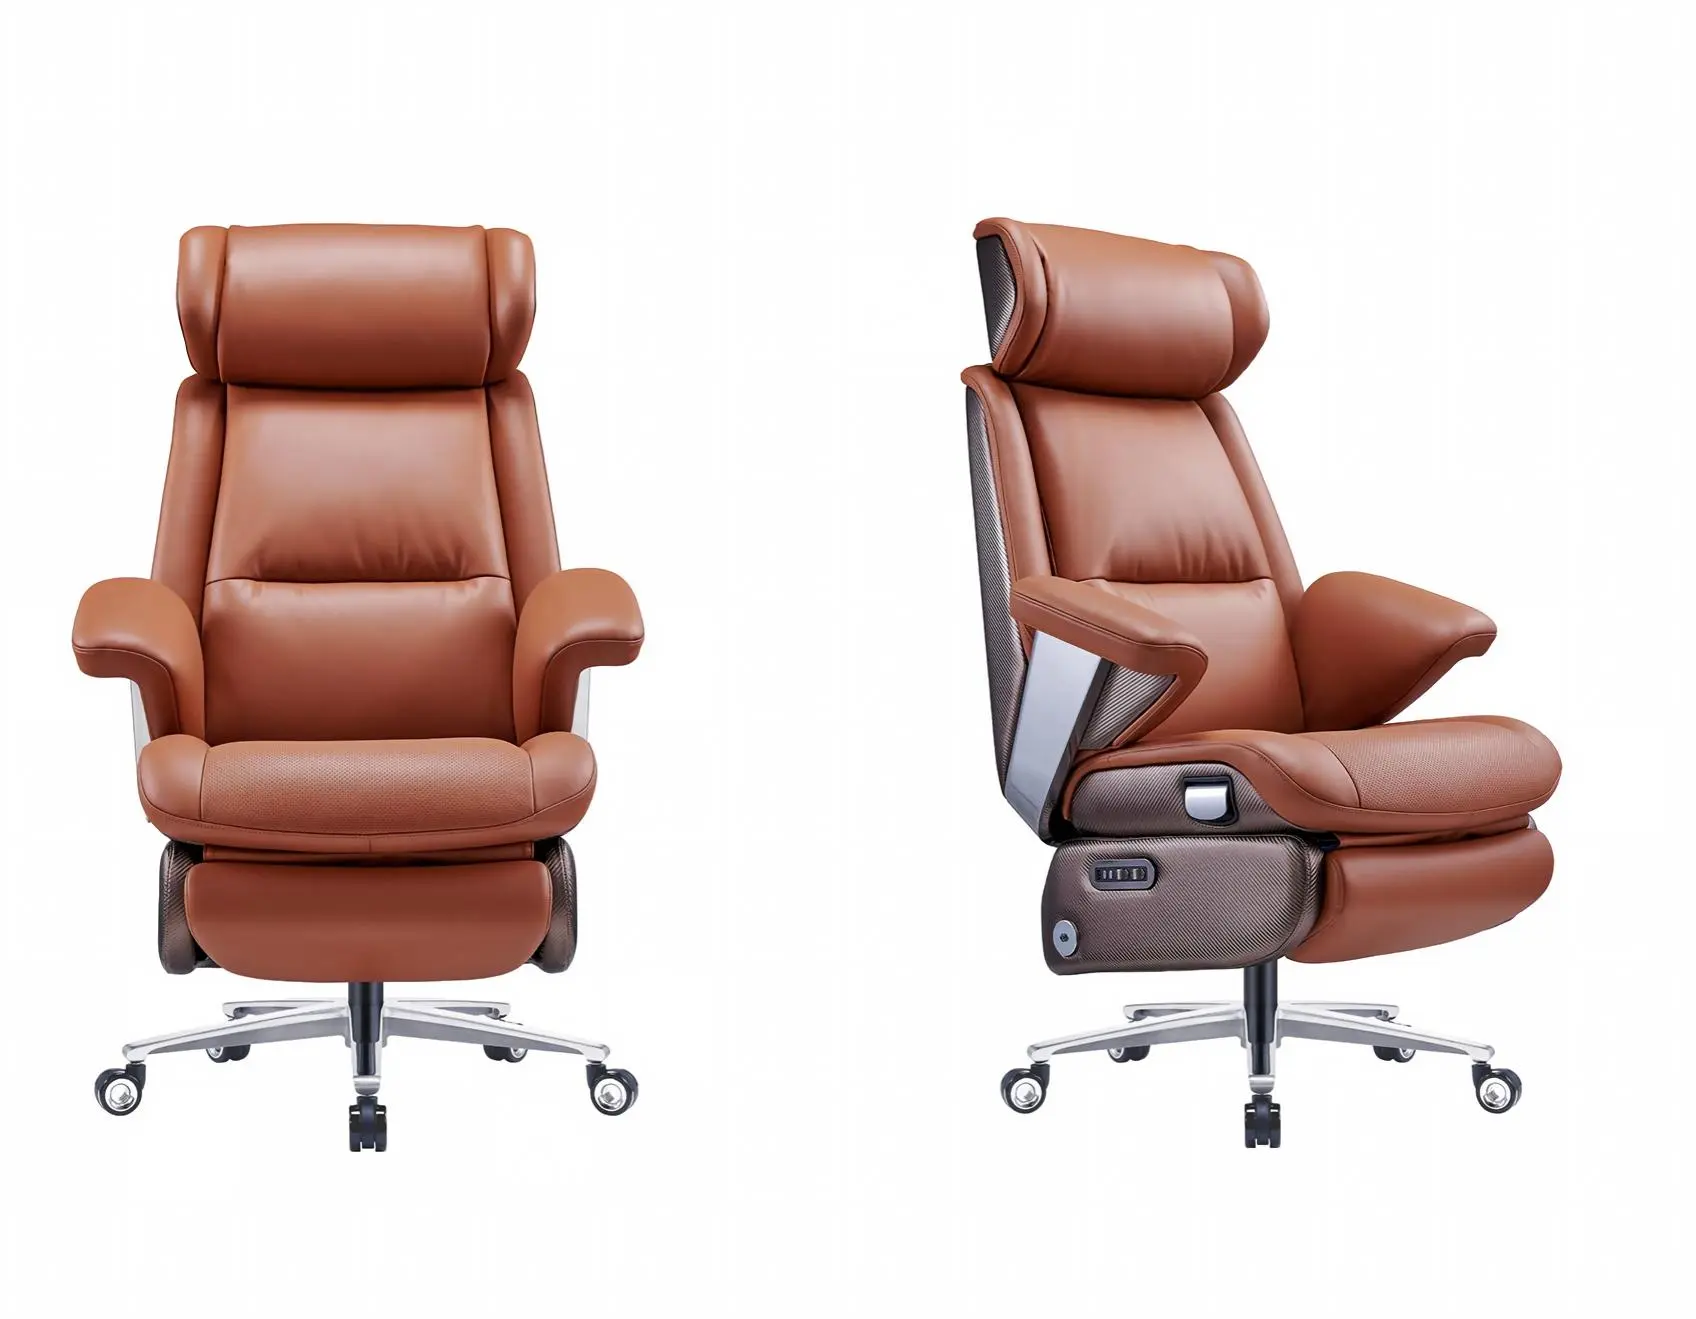
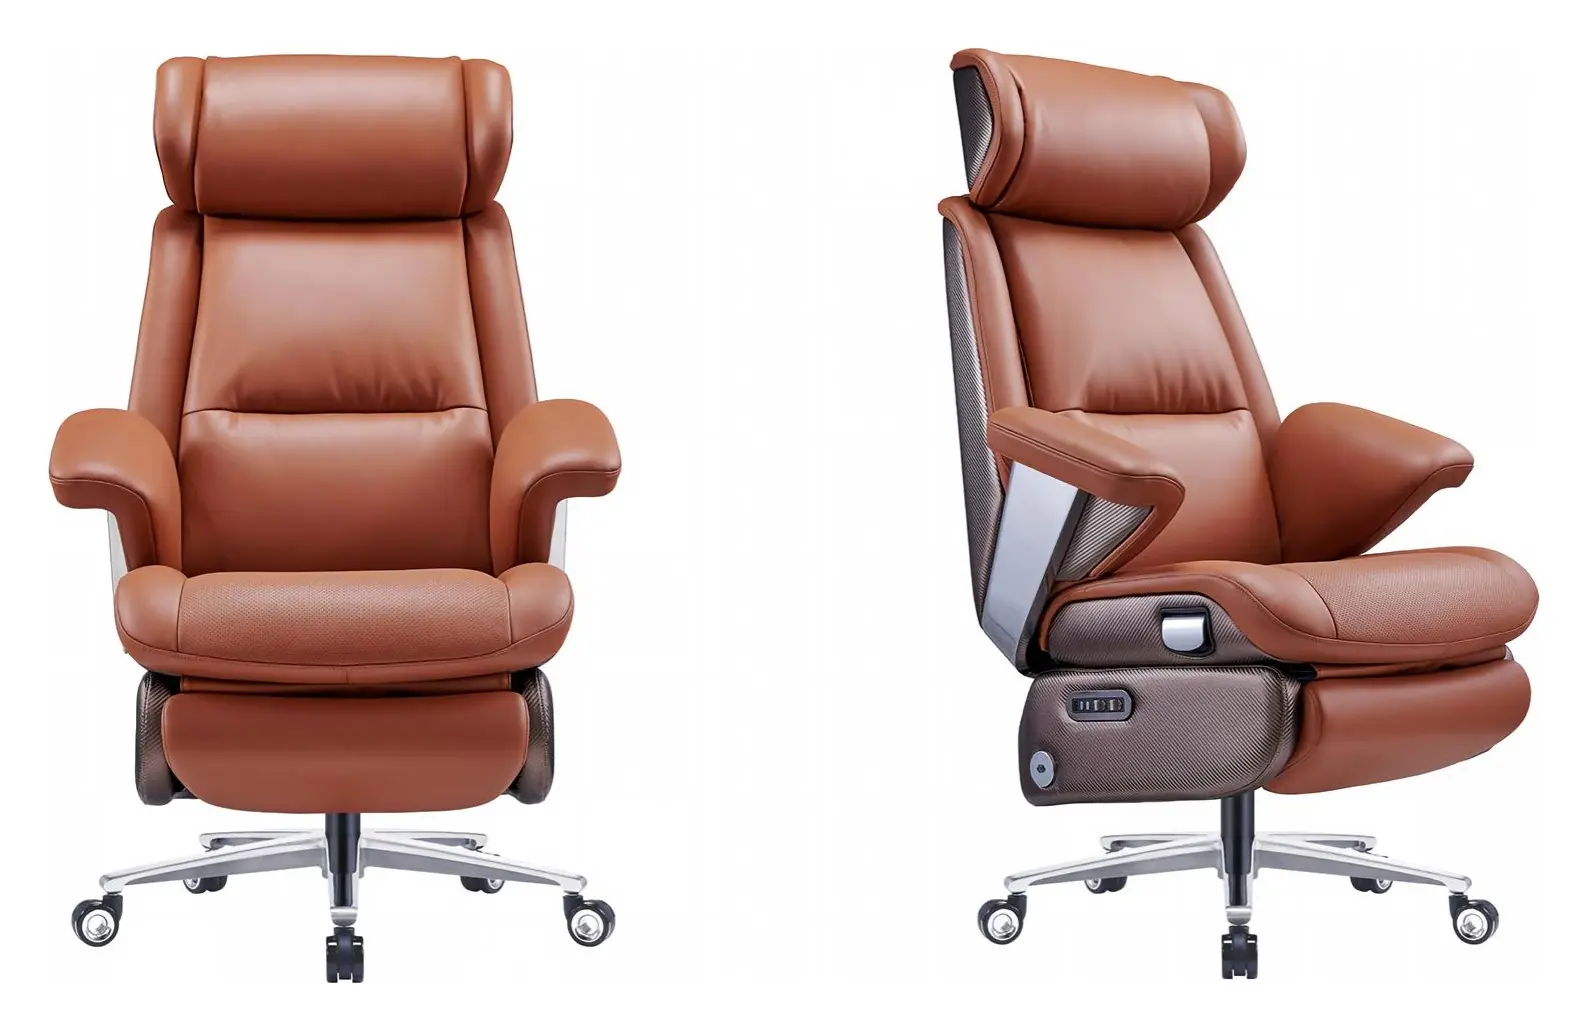
Tighten chair finish gallery crops

diff --git a/assets/css/wood-shell-executive-chair.css b/assets/css/wood-shell-executive-chair.css
@@ -187,8 +187,9 @@
 .chair-color-grid img {
   display: block;
   width: 100%;
-  aspect-ratio: 1.15 / 1;
+  aspect-ratio: 1.35 / 1;
   object-fit: contain;
+  object-position: center;
   background: #fff;
 }
 
